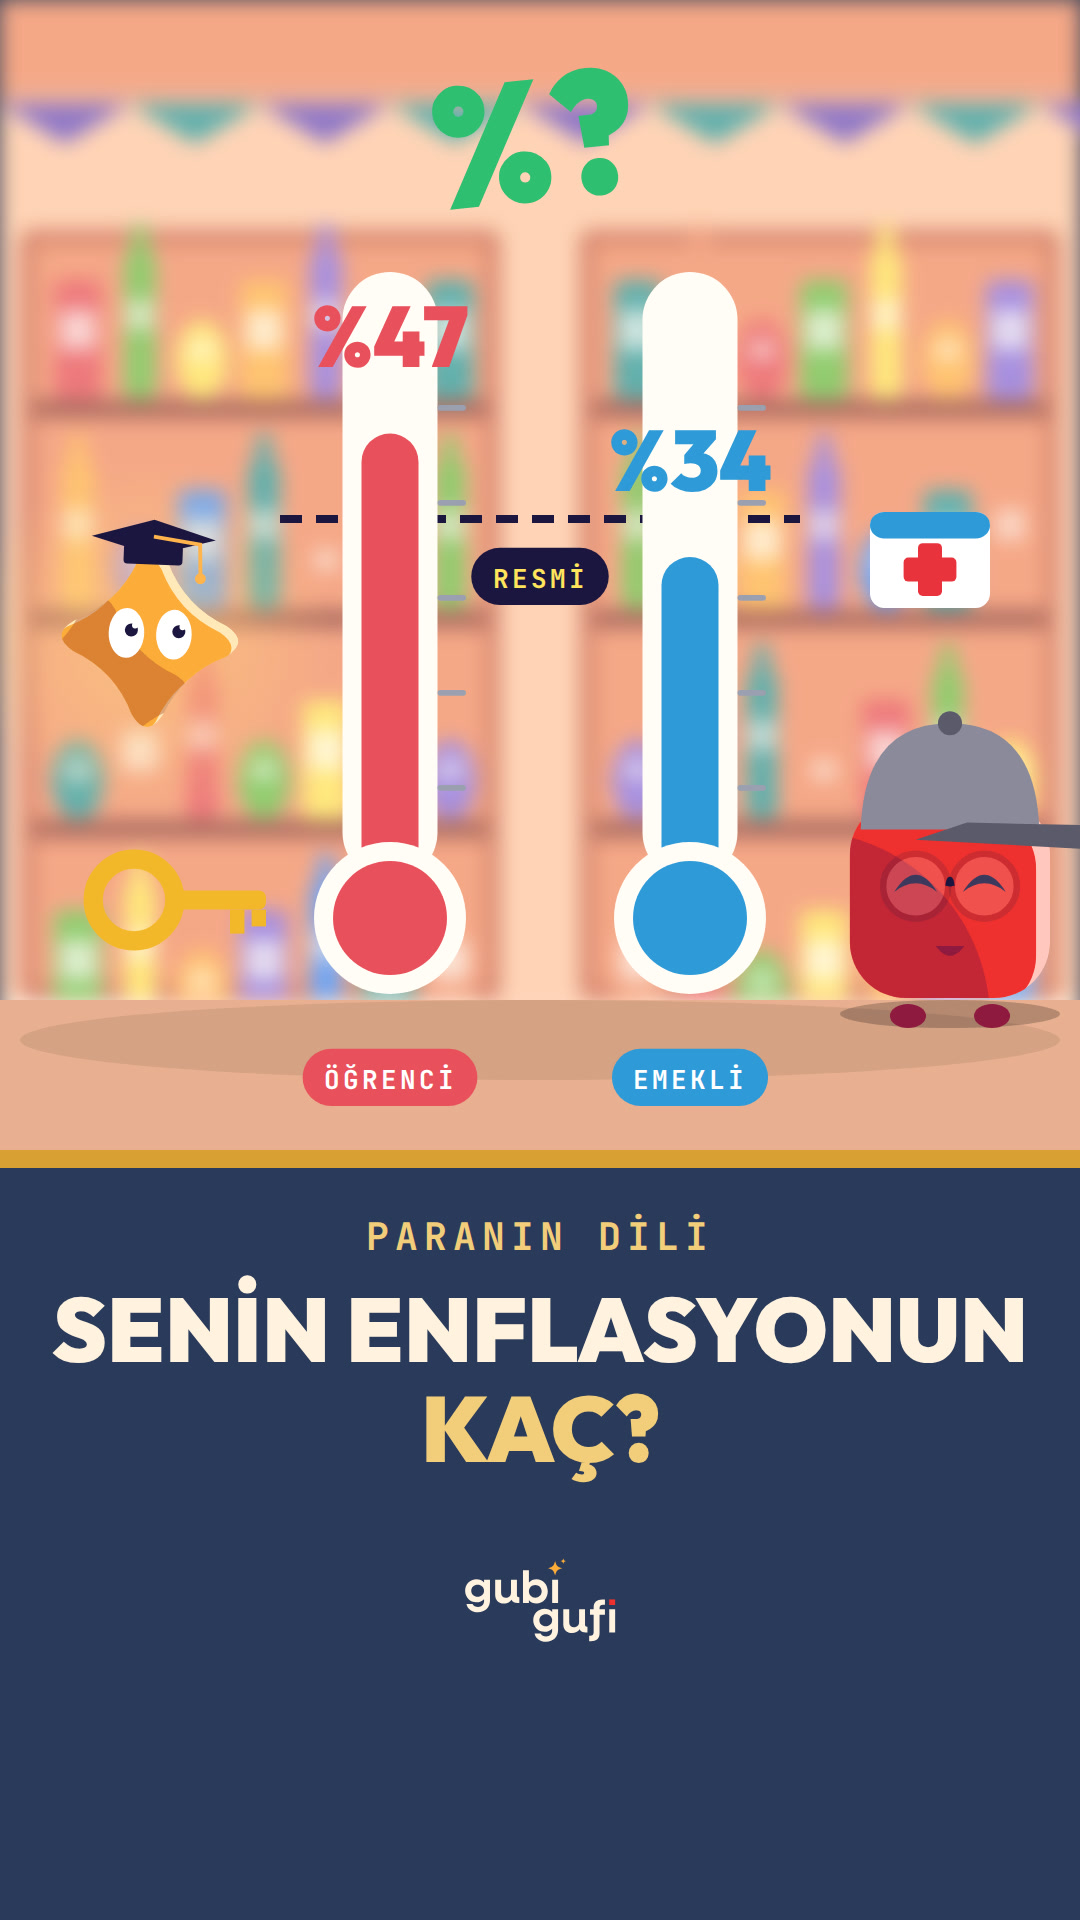
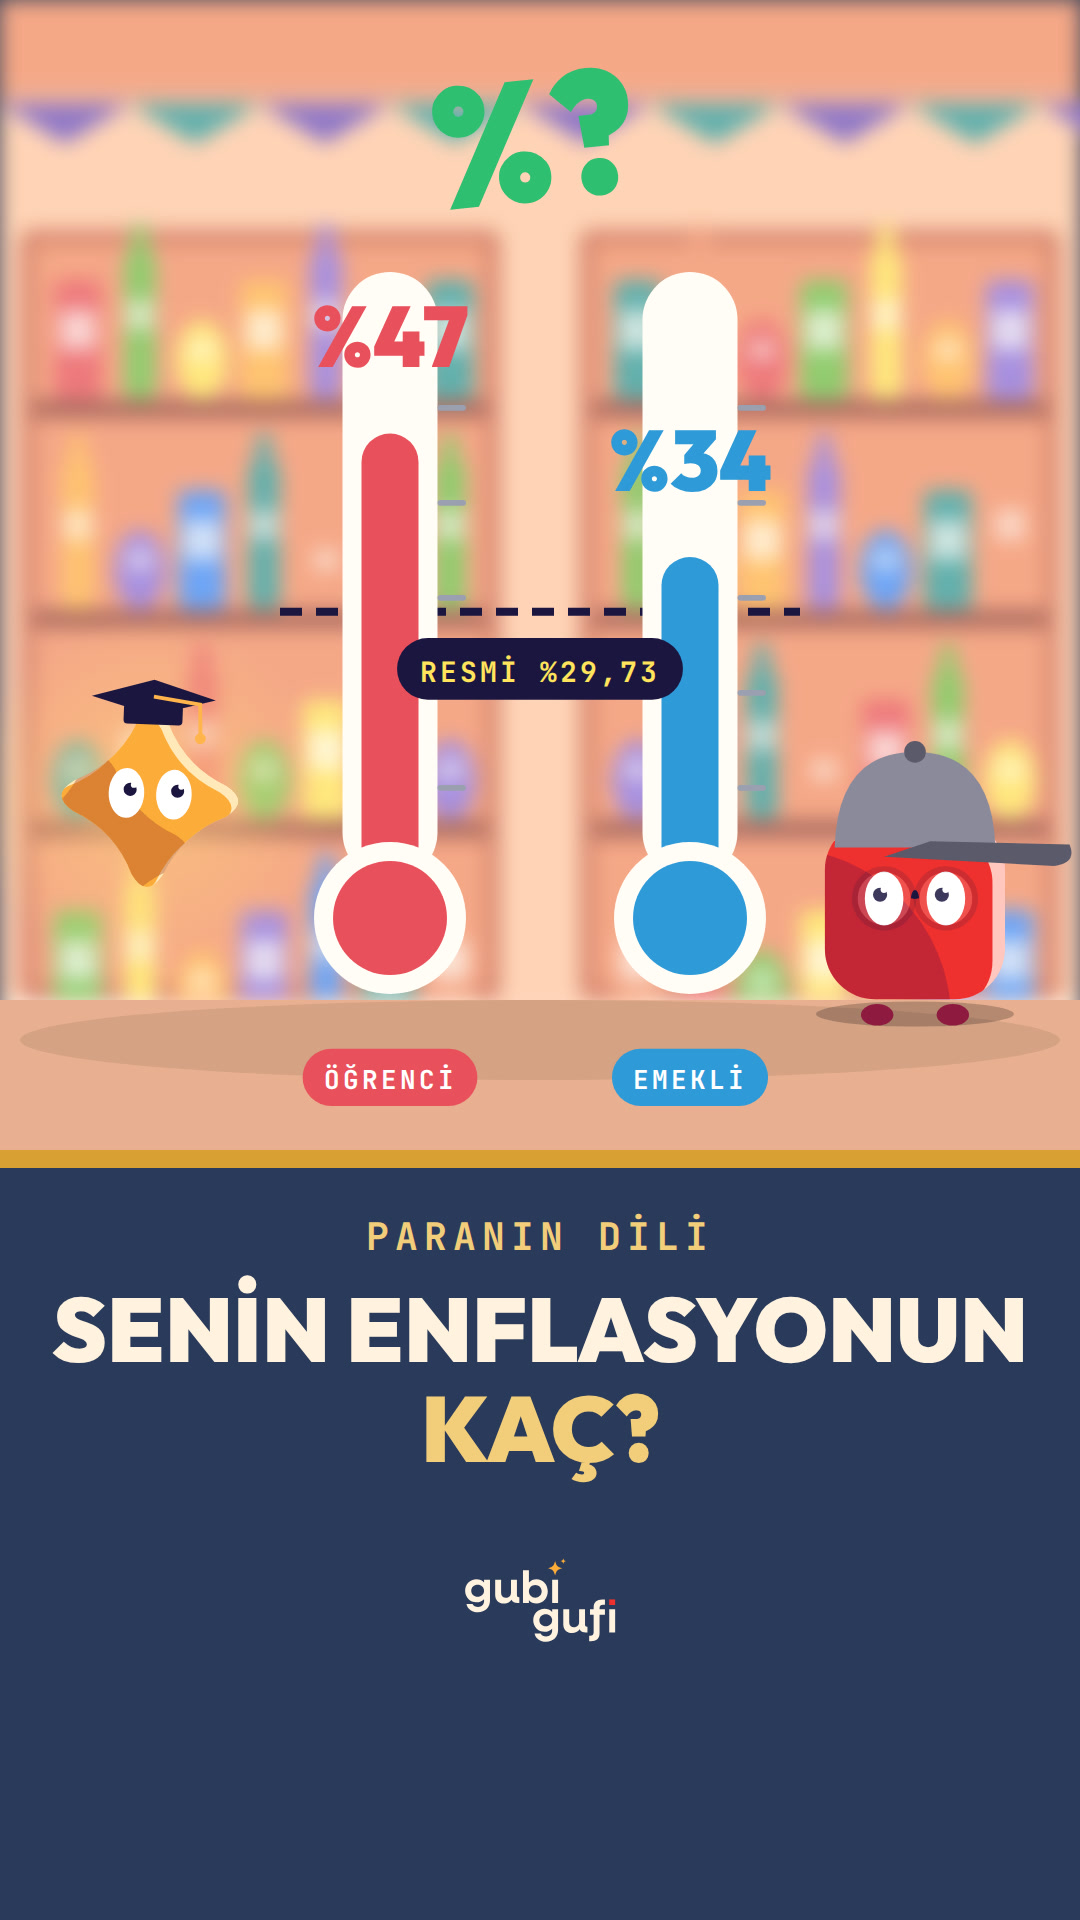
#19 kapak: açıklamasız ikonlar kaldırıldı, resmi çizgi %29,73
Claude-Session: https://claude.ai/code/session_01XpFWe2qV8RD24ed2Fkasje

diff --git a/gubigufi/2026-09-30/19-senin-enflasyonun/kaynak/sahneler/kapak.html b/gubigufi/2026-09-30/19-senin-enflasyonun/kaynak/sahneler/kapak.html
@@ -9,16 +9,14 @@ window.renderAt = t => {
   let o = `<g style="filter:blur(10px)">${PR.market(CV.ton('seftali'), 1000)}</g><rect width="1080" height="1150" fill="#FFF3E0" opacity=".25"/>`;
   o += `<rect x="0" y="1000" width="1080" height="150" fill="#E8B090"/><ellipse cx="540" cy="1040" rx="520" ry="40" fill="#000" opacity=".08"/>`;
   // iki termometre: ortada, karakterlerden bağımsız
-  const ry = 880 - 570 * 40 / 60 * .95;
+  const ry = 880 - 570 * 29.73 / 60 * .95;
   o += `<path d="M280 ${ry} H800" stroke="#1B1640" stroke-width="8" stroke-dasharray="22 14"/>`;
   o += EN.termometre(390, 880, .95, 47, 60, '#E8505B', '') + EN.termometre(690, 880, .95, 34, 60, '#2E9AD8', '');
-  o += EN.cipO('RESMİ', 540, ry + 60, '#1B1640', '#FFE45C', 26);
+  o += EN.cipO('RESMİ %29,73', 540, ry + 60, '#1B1640', '#FFE45C', 28);
   o += EN.cipO('ÖĞRENCİ', 390, 1080, '#E8505B', '#FFFFFF', 26) + EN.cipO('EMEKLİ', 690, 1080, '#2E9AD8', '#FFFFFF', 26);
   // karakterler dış kenarlarda, termometreye bakıyor
-  o += M.canli('gubi', { t: 1.2, x: 150, y: 640, boy: 190, duygu: 'saskin', bakHedef: [390, 300], ust: KO.giy('gubi', [['kep', { renk: '#1B1640', puskul: '#FFB44C' }]]) });
-  o += `<g transform="translate(170 900)">` + EN.ikon('kira', 0, 0, 1.2) + `</g>`;
-  o += M.canli('gufi', { t: .5, x: 950, y: 1010, boy: 200, duygu: 'mutlu', bakHedef: [690, 450], ust: KO.giy('gufi', ['gozluk', ['kasket', { renk: '#8A8A9A', siper: '#5A5A6A' }]]) });
-  o += `<g transform="translate(930 560)">` + EN.ikon('saglik', 0, 0, 1.2) + `</g>`;
+  o += M.canli('gubi', { t: 1.2, x: 150, y: 800, boy: 190, duygu: 'saskin', bakHedef: [390, 300], ust: KO.giy('gubi', [['kep', { renk: '#1B1640', puskul: '#FFB44C' }]]) });
+  o += M.canli('gufi', { t: .5, x: 915, y: 1010, boy: 180, duygu: 'saskin', bakHedef: [690, 450], ust: KO.giy('gufi', ['gozluk', ['kasket', { renk: '#8A8A9A', siper: '#5A5A6A' }]]) });
   o += `<text x="540" y="200" font-size="170" font-weight="900" text-anchor="middle" style="fill:#2FBF71" transform="rotate(-6 540 200)">%?</text>`;
   o += `<rect x="0" y="1150" width="1080" height="770" fill="#2A3A5A"/><rect x="0" y="1150" width="1080" height="18" fill="#D8A032"/>`;
   o += `<text class="mono" x="540" y="1250" font-size="38" text-anchor="middle" letter-spacing="6" style="fill:#F2CE7A">PARANIN DİLİ</text>`;
